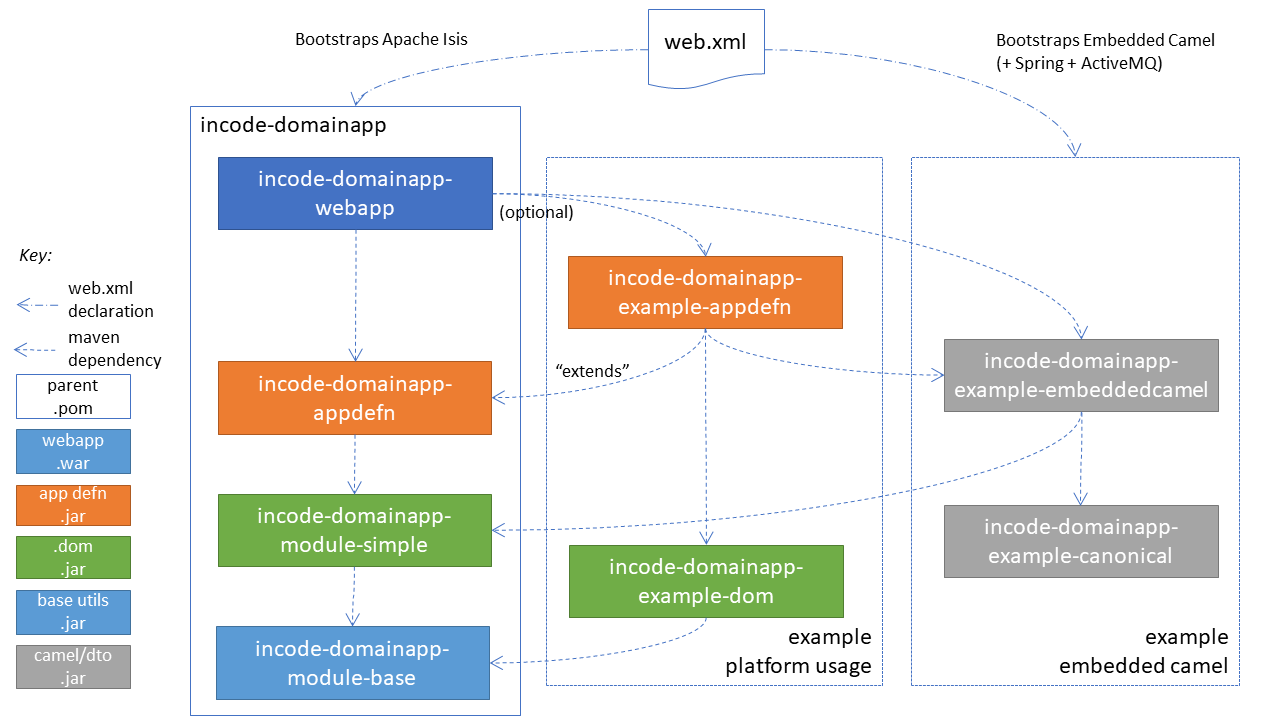
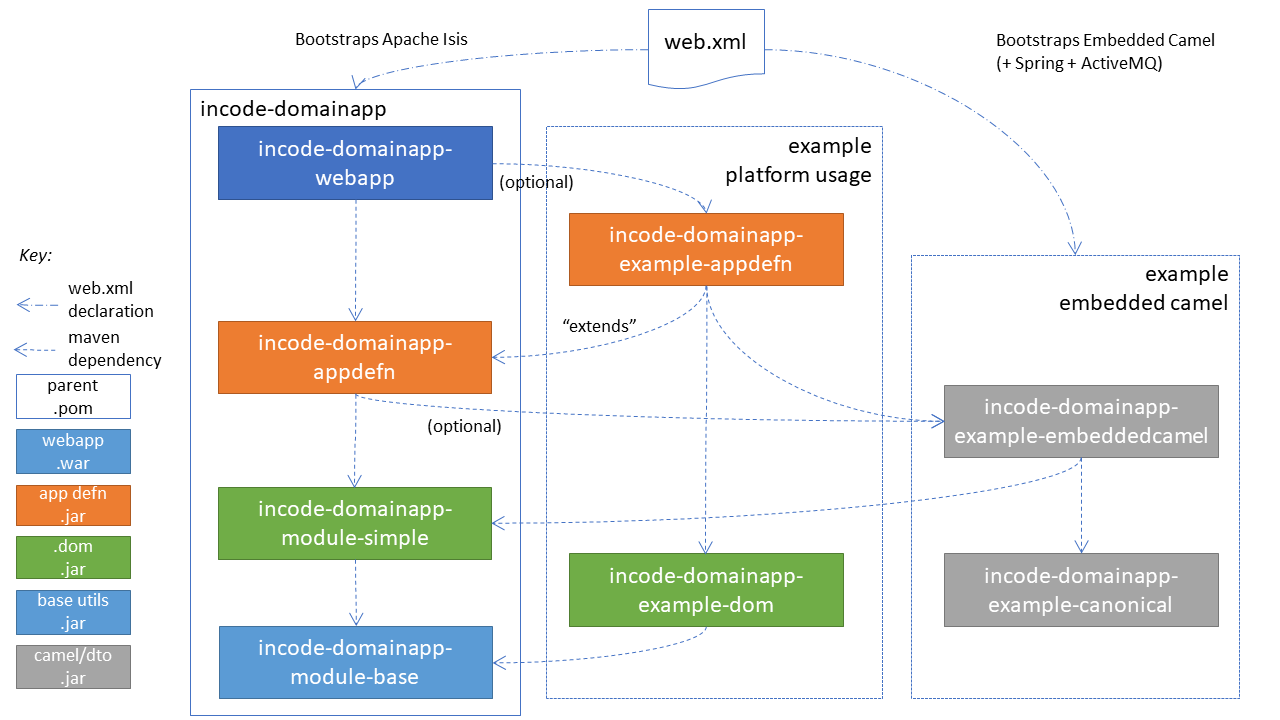
swagger and module dependencies, embedded camel fixes

diff --git a/domainapp/appdefn/src/main/java/domainapp/appdefn/DomainAppAppManifest.java b/domainapp/appdefn/src/main/java/domainapp/appdefn/DomainAppAppManifest.java
@@ -43,6 +43,7 @@ import org.incode.module.docrendering.xdocreport.dom.XDocReportDocRenderingModul
 import org.incode.module.document.dom.DocumentModule;
 import org.incode.module.note.dom.NoteModule;
 
+import domainapp.example.embeddedcamel.EmbeddedCamelModule;
 import domainapp.modules.simple.SimpleModule;
 
 public class DomainAppAppManifest extends AppManifestAbstract {
@@ -52,6 +53,10 @@ public class DomainAppAppManifest extends AppManifestAbstract {
             DomainAppAppDefnModule.class,
 
             SimpleModule.class,
+
+            // Comment out to exclude example modules that set up embedded camel: START
+            EmbeddedCamelModule.class,
+            // Comment out to exclude example modules that set up embedded camel: END
 
             // extensions
             TogglzModule.class,

diff --git a/domainapp/appdefn/src/test/java/domainapp/appdefn/integtests/DomainAppIntegTestAbstract.java b/domainapp/appdefn/src/test/java/domainapp/appdefn/integtests/DomainAppIntegTestAbstract.java
@@ -4,17 +4,13 @@ import org.junit.BeforeClass;
 
 import org.apache.isis.core.integtestsupport.IntegrationTestAbstract2;
 
-import domainapp.appdefn.DomainAppAppManifest;
+import domainapp.appdefn.DomainAppAppManifestNoFlywayDb;
 
 public abstract class DomainAppIntegTestAbstract extends IntegrationTestAbstract2 {
 
     @BeforeClass
     public static void initSystem() {
-        bootstrapUsing(
-                DomainAppAppManifest.BUILDER
-                .withConfigurationProperty(
-                        "isis.persistor.datanucleus.impl.javax.jdo.PersistenceManagerFactoryClass",
-                        "org.datanucleus.api.jdo.JDOPersistenceManagerFactory"));
+        bootstrapUsing(DomainAppAppManifestNoFlywayDb.BUILDER);
     }
 
 }

diff --git a/domainapp/appdefn/src/main/java/domainapp/appdefn/DomainAppAppManifestNoFlywayDb.java b/domainapp/appdefn/src/main/java/domainapp/appdefn/DomainAppAppManifestNoFlywayDb.java
@@ -1,0 +1,16 @@
+package domainapp.appdefn;
+
+import org.apache.isis.applib.AppManifestAbstract;
+
+public class DomainAppAppManifestNoFlywayDb extends AppManifestAbstract {
+
+    public static final Builder BUILDER = DomainAppAppManifest.BUILDER
+            .withConfigurationProperty(
+                    "isis.persistor.datanucleus.impl.javax.jdo.PersistenceManagerFactoryClass",
+                    "org.datanucleus.api.jdo.JDOPersistenceManagerFactory");
+
+    public DomainAppAppManifestNoFlywayDb() {
+        super(BUILDER);
+    }
+
+}

diff --git a/modules/spi/publishmq/impl/camel/src/main/java/org/isisaddons/module/publishmq/dom/camel/AddExchangeHeaders.java b/modules/spi/publishmq/impl/camel/src/main/java/org/isisaddons/module/publishmq/dom/camel/AddExchangeHeaders.java
@@ -67,6 +67,7 @@ public class AddExchangeHeaders implements Processor {
                 .put("execution$id", interactionDto.getTransactionId() + "." + executionDto.getSequence())
                 .put("execution$user", executionDto.getUser())
                 .put("execution$memberIdentifier", executionDto.getMemberIdentifier())
+                .put("execution$logicalMemberIdentifier", executionDto.getLogicalMemberIdentifier())
                 .put("execution$metrics$timings$startedAt", timings.getStartedAt())
                 .build();
 

diff --git a/modules/spi/publishmq/impl/statusclient/src/main/java/org/isisaddons/module/publishmq/dom/statusclient/StatusMessageClient.java b/modules/spi/publishmq/impl/statusclient/src/main/java/org/isisaddons/module/publishmq/dom/statusclient/StatusMessageClient.java
@@ -63,7 +63,7 @@ public class StatusMessageClient {
      * Should be called once all properties have been injected.
      */
     public void init() {
-        this.uriBuilder = UriBuilder.fromUri(base + "services/StatusMessageService/actions/log/invoke");
+        this.uriBuilder = UriBuilder.fromUri(base + "services/isispublishmq.StatusMessageService/actions/log/invoke");
     }
 
     private void ensureInitialized() {

diff --git a/domainapp/example/embeddedcamel/src/main/java/domainapp/example/embeddedcamel/restful/mapping/ContentMappingServiceForSimpleObject.java b/domainapp/example/embeddedcamel/src/main/java/domainapp/example/embeddedcamel/restful/mapping/ContentMappingServiceForSimpleObject.java
@@ -1,4 +1,4 @@
-package org.incode.domainapp.example.dom.spi.publishmq.dom.spiimpl;
+package domainapp.example.embeddedcamel.restful.mapping;
 
 import java.util.List;
 

diff --git a/domainapp/example/embeddedcamel/src/main/java/domainapp/example/embeddedcamel/processor/AttachSimpleObjectDto.java b/domainapp/example/embeddedcamel/src/main/java/domainapp/example/embeddedcamel/processor/AttachSimpleObjectDto.java
@@ -1,4 +1,4 @@
-package org.incode.domainapp.example.embeddedcamel;
+package domainapp.example.embeddedcamel.processor;
 
 import java.net.URI;
 

diff --git a/domainapp/example/embeddedcamel/src/main/java/domainapp/example/embeddedcamel/EmbeddedCamelModule.java b/domainapp/example/embeddedcamel/src/main/java/domainapp/example/embeddedcamel/EmbeddedCamelModule.java
@@ -1,0 +1,6 @@
+package domainapp.example.embeddedcamel;
+
+public final class EmbeddedCamelModule {
+    private EmbeddedCamelModule() {}
+
+}
